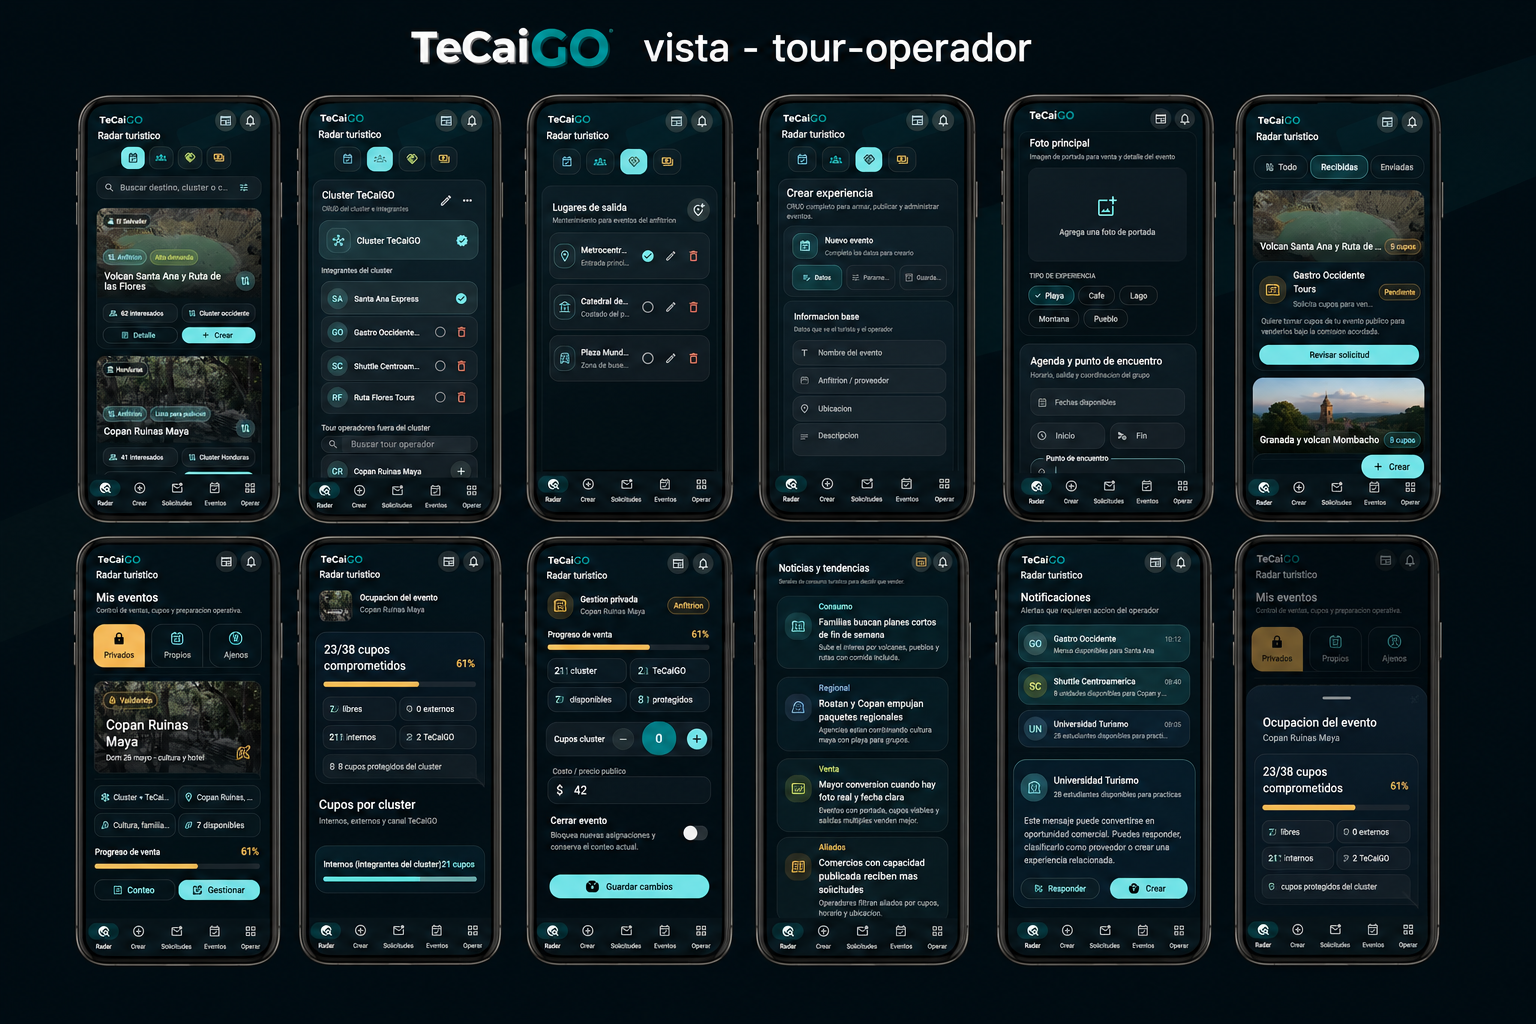
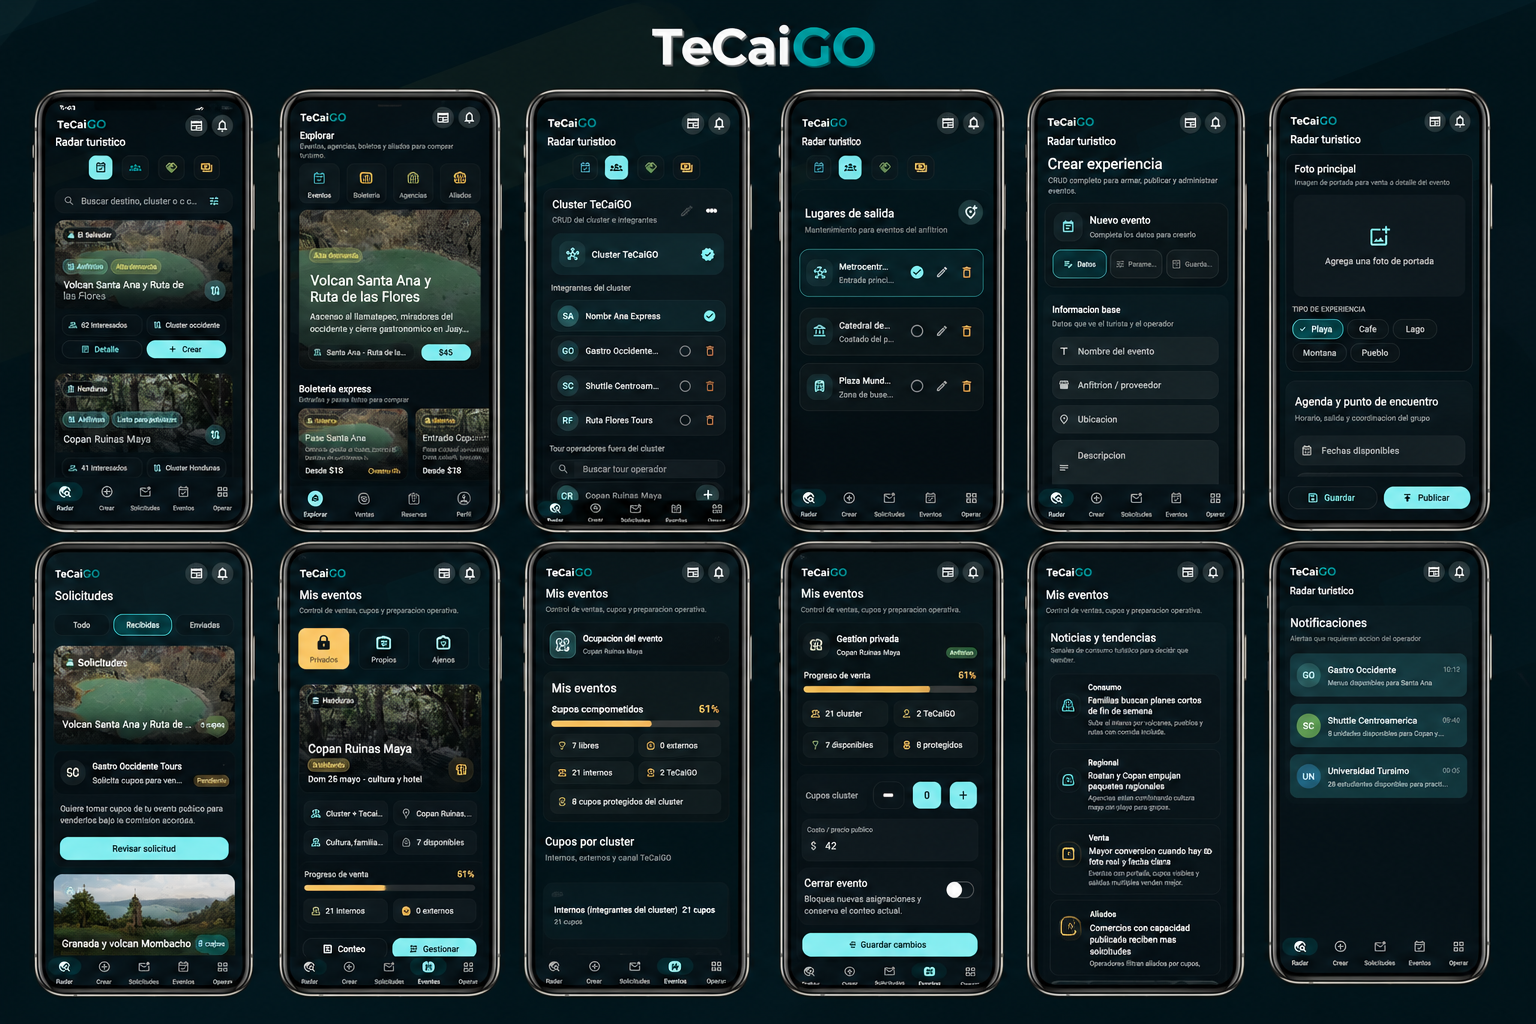
Replace tour operator actor image

diff --git a/webtecaigo-landing/index.html b/webtecaigo-landing/index.html
@@ -1726,7 +1726,7 @@ p {
 .actor-card.has-visual {
   position: relative;
   display: grid;
-  min-height: clamp(320px, 34vw, 460px);
+  min-height: clamp(420px, 40vw, 560px);
   padding: 0;
   overflow: hidden;
   background: #031011;
@@ -1737,7 +1737,7 @@ p {
   width: 100%;
   height: 100%;
   min-height: inherit;
-  object-fit: cover;
+  object-fit: contain;
   object-position: center;
   opacity: 0.94;
 }
@@ -1746,8 +1746,8 @@ p {
   position: absolute;
   inset: 0;
   background:
-    linear-gradient(180deg, rgba(2, 9, 9, 0.1), rgba(2, 9, 9, 0.12) 48%, rgba(2, 9, 9, 0.74)),
-    radial-gradient(circle at 50% 34%, transparent 0 42%, rgba(2, 9, 9, 0.4) 100%);
+    linear-gradient(180deg, rgba(2, 9, 9, 0.04), rgba(2, 9, 9, 0.04) 58%, rgba(2, 9, 9, 0.42)),
+    radial-gradient(circle at 50% 34%, transparent 0 54%, rgba(2, 9, 9, 0.22) 100%);
   pointer-events: none;
   content: "";
 }
@@ -1756,9 +1756,9 @@ p {
   position: absolute;
   left: 28px;
   right: 28px;
-  bottom: 24px;
+  bottom: 20px;
   z-index: 1;
-  max-width: 640px;
+  max-width: 520px;
 }
 
 .actor-card h3 {
@@ -1768,8 +1768,9 @@ p {
 }
 
 .actor-card.has-visual h3 {
-  max-width: 620px;
-  font-size: clamp(1.35rem, 2.1vw, 2rem);
+  max-width: 520px;
+  font-size: clamp(1.05rem, 1.45vw, 1.45rem);
+  line-height: 1.05;
   text-shadow: 0 18px 42px rgba(0, 0, 0, 0.7);
 }
 
@@ -2381,7 +2382,7 @@ p {
   }
 
   .actor-card.has-visual {
-    min-height: 260px;
+    min-height: 300px;
   }
 
   .actor-visual-caption {
@@ -2391,7 +2392,7 @@ p {
   }
 
   .actor-card.has-visual h3 {
-    font-size: 1.18rem;
+    font-size: 1rem;
   }
 
   .problem-item,

diff --git a/webtecaigo-landing/styles.css b/webtecaigo-landing/styles.css
@@ -1709,7 +1709,7 @@ p {
 .actor-card.has-visual {
   position: relative;
   display: grid;
-  min-height: clamp(320px, 34vw, 460px);
+  min-height: clamp(420px, 40vw, 560px);
   padding: 0;
   overflow: hidden;
   background: #031011;
@@ -1720,7 +1720,7 @@ p {
   width: 100%;
   height: 100%;
   min-height: inherit;
-  object-fit: cover;
+  object-fit: contain;
   object-position: center;
   opacity: 0.94;
 }
@@ -1729,8 +1729,8 @@ p {
   position: absolute;
   inset: 0;
   background:
-    linear-gradient(180deg, rgba(2, 9, 9, 0.1), rgba(2, 9, 9, 0.12) 48%, rgba(2, 9, 9, 0.74)),
-    radial-gradient(circle at 50% 34%, transparent 0 42%, rgba(2, 9, 9, 0.4) 100%);
+    linear-gradient(180deg, rgba(2, 9, 9, 0.04), rgba(2, 9, 9, 0.04) 58%, rgba(2, 9, 9, 0.42)),
+    radial-gradient(circle at 50% 34%, transparent 0 54%, rgba(2, 9, 9, 0.22) 100%);
   pointer-events: none;
   content: "";
 }
@@ -1739,9 +1739,9 @@ p {
   position: absolute;
   left: 28px;
   right: 28px;
-  bottom: 24px;
+  bottom: 20px;
   z-index: 1;
-  max-width: 640px;
+  max-width: 520px;
 }
 
 .actor-card h3 {
@@ -1751,8 +1751,9 @@ p {
 }
 
 .actor-card.has-visual h3 {
-  max-width: 620px;
-  font-size: clamp(1.35rem, 2.1vw, 2rem);
+  max-width: 520px;
+  font-size: clamp(1.05rem, 1.45vw, 1.45rem);
+  line-height: 1.05;
   text-shadow: 0 18px 42px rgba(0, 0, 0, 0.7);
 }
 
@@ -2364,7 +2365,7 @@ p {
   }
 
   .actor-card.has-visual {
-    min-height: 260px;
+    min-height: 300px;
   }
 
   .actor-visual-caption {
@@ -2374,7 +2375,7 @@ p {
   }
 
   .actor-card.has-visual h3 {
-    font-size: 1.18rem;
+    font-size: 1rem;
   }
 
   .problem-item,
